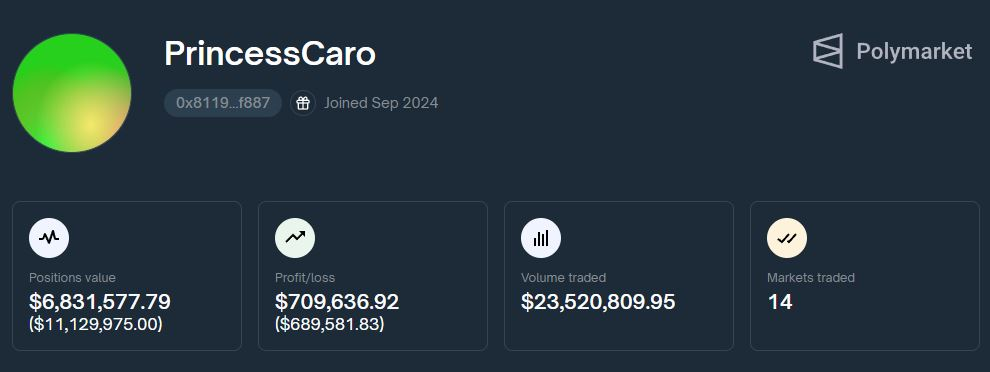
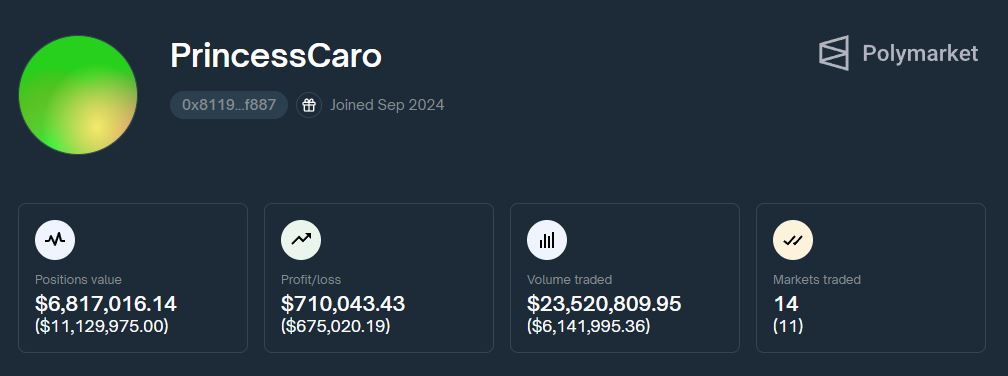
Add volume and markets figures

diff --git a/unrealized-profits.js b/unrealized-profits.js
@@ -103,4 +103,23 @@ async function runScript() {
     else {
         (document.querySelector(portfolioSelector)).innerHTML += `<p id="portfolio-mle" style="margin: 0">${portfolioMLEString}</p>`;
     }
+    const volumeSelector = "#__pm_layout > div > div:nth-child(3) > div:nth-child(3)";
+    const volume = positions.reduce((acc, p) => acc + p.initialValue, 0);
+    const existingVolume = document.querySelector("#volume");
+    const volumeString = `($${numberFormatter.format(volume)})`;
+    if (existingVolume) {
+        existingVolume.innerHTML = volumeString;
+    }
+    else {
+        (document.querySelector(volumeSelector)).innerHTML += `<p id="volume" style="margin: 0">${volumeString}</p>`;
+    }
+    const marketsSelector = "#__pm_layout > div > div:nth-child(3) > div:nth-child(4)";
+    const markets = positions.length;
+    const existingMarkets = document.querySelector("#markets");
+    if (existingMarkets) {
+        existingMarkets.innerHTML = markets;
+    }
+    else {
+        (document.querySelector(marketsSelector)).innerHTML += `<p id="markets" style="margin: 0">(${markets})</p>`;
+    }
 }

diff --git a/README.md b/README.md
@@ -21,5 +21,7 @@ To address this, the script extracts the unrealized profit from current position
 In the portfolio, each position shows a "To Win" value—what you would earn if your prediction is correct. However, this value isn't accumulated for all bets, and it's unrealistic to expect every bet to win. The portfolio value represents the Estimated Value (EV) of active bets, calculated based on market probabilities.  
 The script also provides an easy way to estimate the potential monetary outcome of your positions by assuming bets with over 50% probability will win and those with less than 50% will lose. It accumulates these values to provide what is known as the Maximum Likelihood Estimate (MLE). While the actual outcome might differ, statistically, this represents the most probable result once all bets are settled. This MLE figure will be displayed below the portfolio value on the profile page and can be especially useful when balancing a mix of high- and low-chance bets.
 ![PrincessCaro profile](https://raw.githubusercontent.com/firedigger/polymarket-userscripts/refs/heads/main/screen3.JPG)
+The value under volume shows the initial investment total on the active positions. In general Polymarket's volume value has a formula aimed at exaggerating numbers and probably doesn't show what you would expect.  
+The value under markets shows the number of active positions, which is also arguably more practical than the number of markets traded within the profile's lifetime.
 
 [ko-fi](https://ko-fi.com/firedigger)
